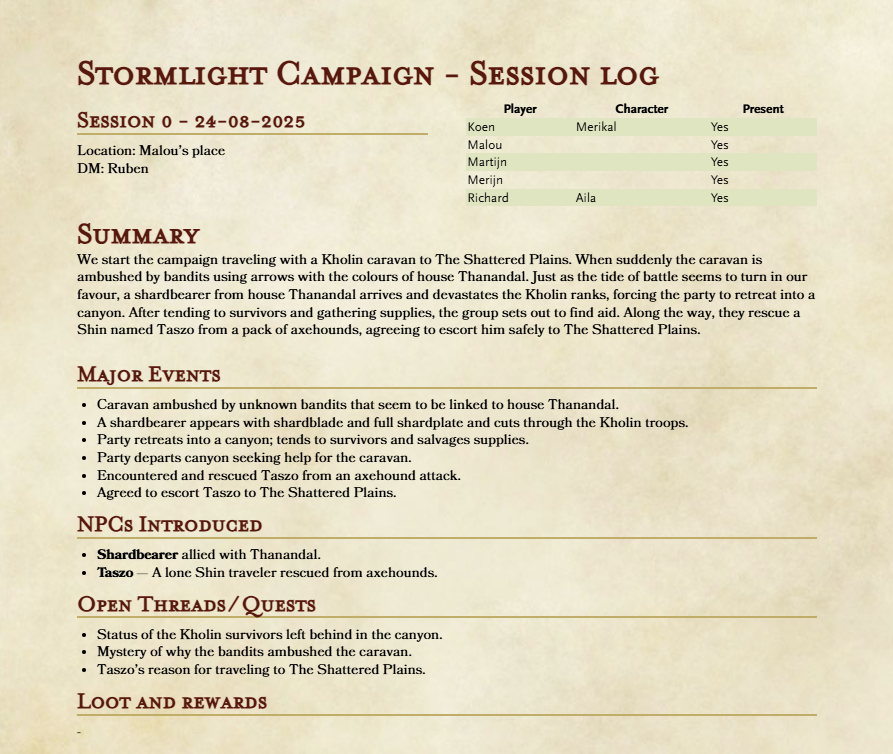
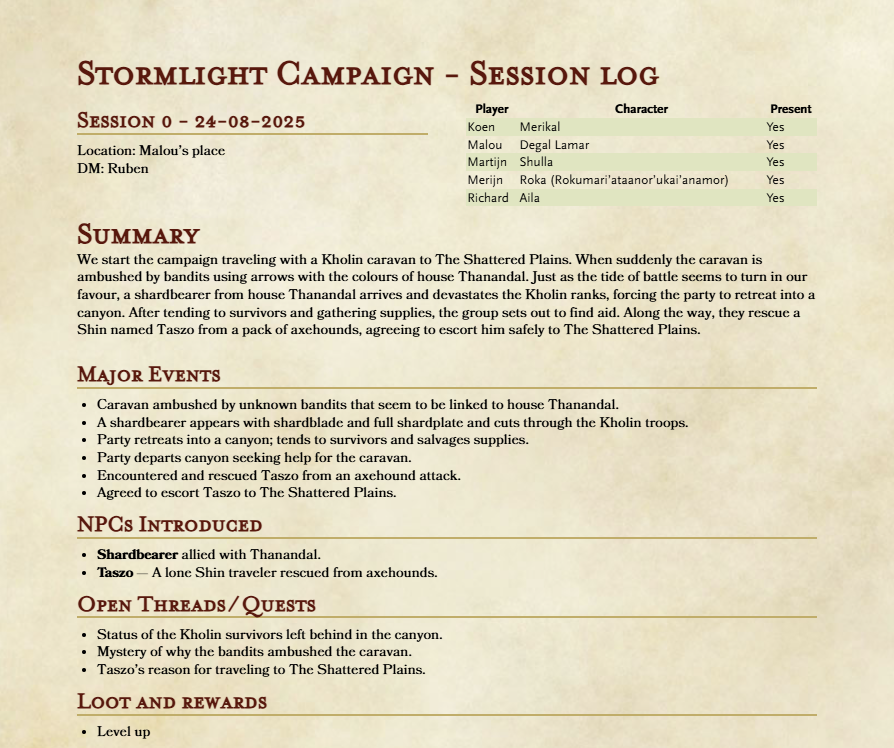
vault backup: 2025-09-14 18:45:12

diff --git a/source/content/Sessions/Session 0 - 24-08-2025.md b/source/content/Sessions/Session 0 - 24-08-2025.md
@@ -36,6 +36,5 @@ We start the campaign traveling with a [[Kholin]] caravan under the lead of [[Br
 - [[Taszo]]’s reason for traveling to [[The Shattered Plains]].  
 
 ## Loot and rewards
-
-
+- Level up
 
